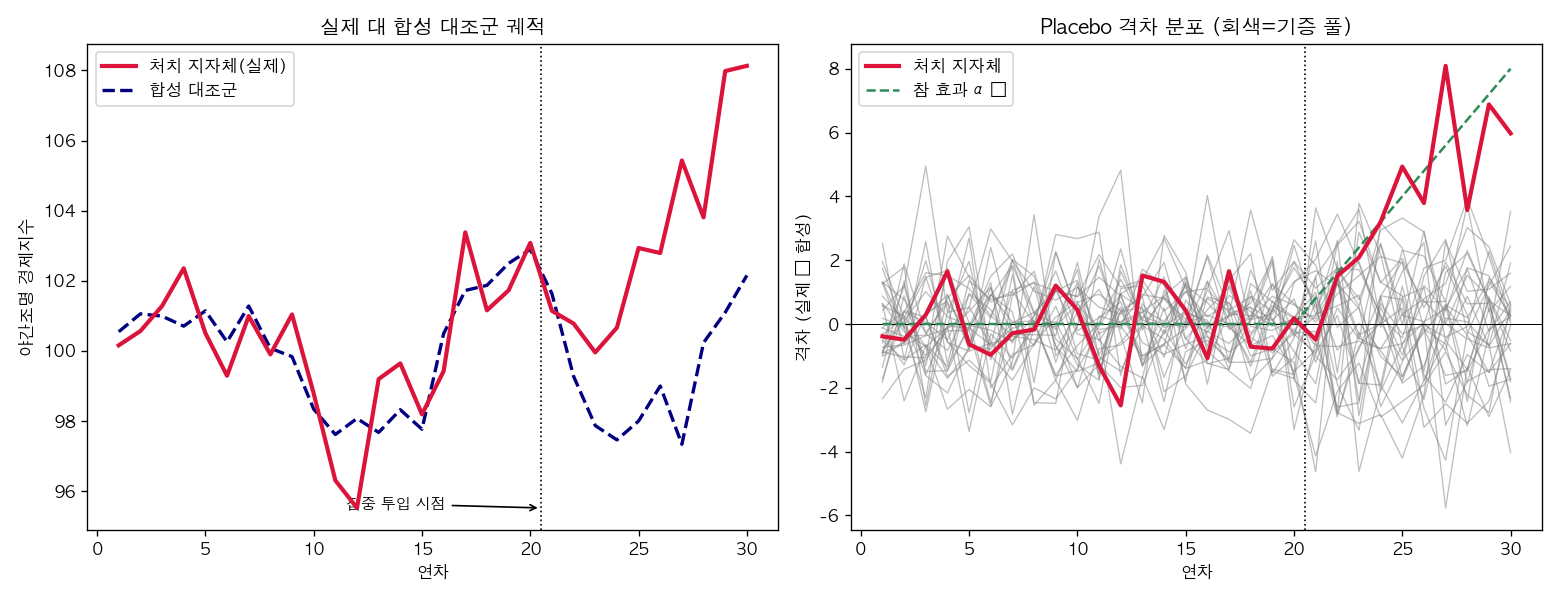
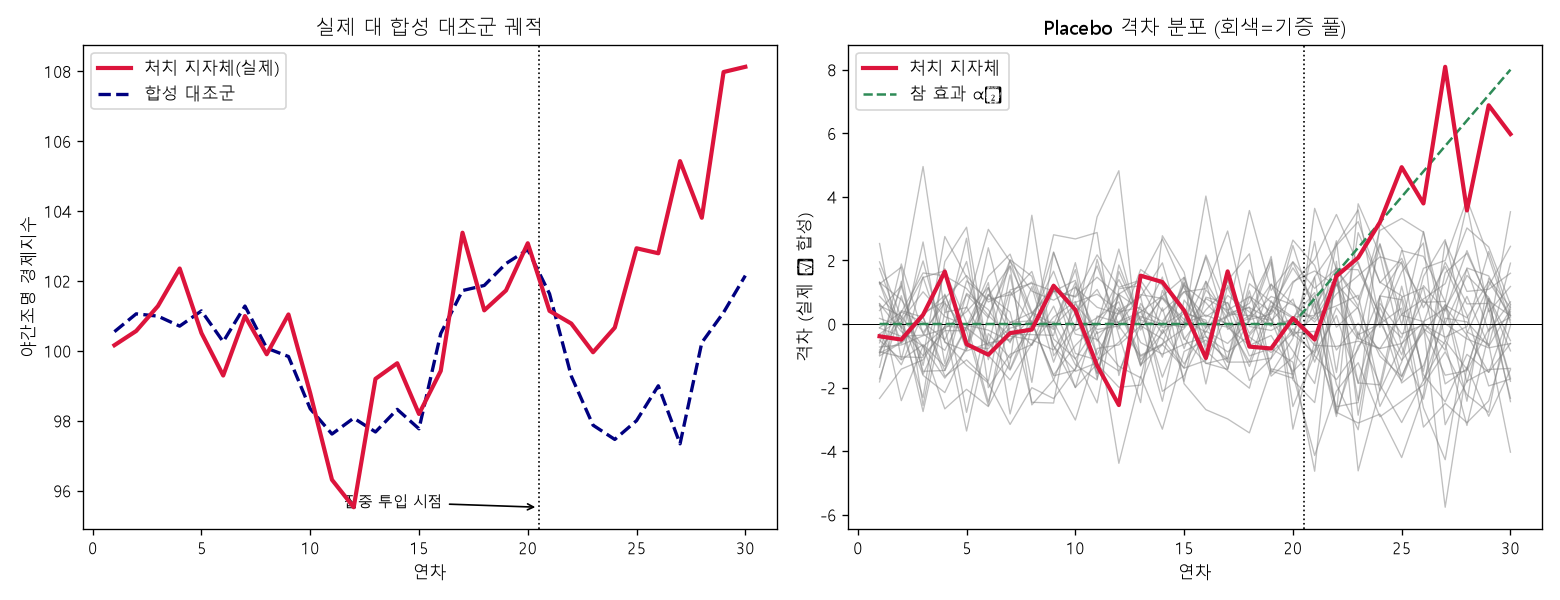
feat: add chapter 12 submission logs, evidence, and synthetic control results for student 202267001

diff --git a/submissions/제출_12장_202267001.md b/submissions/제출_12장_202267001.md
@@ -1,0 +1,139 @@
+# 12장 과제 — 누구에게 먼저, 무엇을 줄 것인가
+
+- **제출자**: 김태휘 / 학번 202267001
+- **제출일**: 2026-11-20 19:15
+
+---
+
+## 1. 자동 기록
+
+| 항목 | 값 |
+|---|---|
+| 대표 실습 | `lecture_practice\chapter12\code\12-1-decline-vulnerability-typology.py` |
+| 실행 결과 | 성공 |
+| 소요 시간 | 2.86초 |
+| 난수 | 학번 시드 오프셋 694488 |
+| 실행 환경 | Python 3.13.12 / Windows-11-10.0.26200-SP0 |
+| 코드 해시 | `53ea340458b119a0…` |
+| 출력 해시 | `dccd355ec27868e4…` |
+
+**준비 스크립트**
+
+- 12-0-simdata-prep.py — 성공, 0.97초
+
+---
+
+## 2. 실행 결과 — 자동으로 붙습니다
+
+아래에서 볼 것: **등급별 지역 수가 한 등급에 몰리는지, 우선지원 상위 지역이 어느 유형인지**
+
+```
+[학번 시드] 난수 오프셋 694488 적용 — 이 결과는 제출자 고유값이다.
+
+
+
+================================================================
+
+지방소멸위험·생활서비스 취약성과 우선지원 지역 (12-1, 1층+유형화)
+
+================================================================
+
+
+
+분석 단위: 300개 시군구·읍면동, 개인 식별 불가 집계
+
+
+
+[1층 GIS] 지방소멸위험지수 등급 (이상호 2015: 20–39세 여성/65세 이상)
+
+  소멸고위험   :   0개 ( 0.0%)
+
+  위험진입    :  63개 (21.0%)
+
+  주의      : 175개 (58.3%)
+
+  보통이상    :  62개 (20.7%)
+
+
+
+  합성 취약성 지표(표준화 가중합, 결정론적):
+
+    가중치 소멸위험0.35·청년유출0.20·서비스접근0.25·사업체0.20
+
+
+
+[2층 보조] KMeans 지역 유형화(k=4) — 정책 패키지 차별화
+
+        n  소멸위험지수  청년순이동  서비스접근분  사업체밀도   취약성
+
+type                                         
+
+3      63    0.45  -2.65   34.56  32.60  1.07
+
+1      84    0.61  -0.89   29.64  43.14  0.43
+
+0     101    0.87   0.11   22.81  56.75 -0.33
+
+2      52    1.35   1.37   15.26  71.68 -1.35
+
+  → 유형별로 청년유입·생활서비스·산업 중 무엇이 부족한지 달라 패키지가 갈린다.
+
+
+
+[3층 정책] 우선지원 지역 (합성 취약성 상위)
+
+ region_id  decline_risk_index risk_grade  youth_netmove  service_access  biz_density  type  vulnerability  vuln_rank
+
+       294                0.43       위험진입          -3.81           46.13        14.49     3           1.81          1
+
+       253                0.31       위험진입          -1.98           44.68        12.21     3           1.70          2
+
+       283                0.28       위험진입          -4.79           37.12        32.05     3           1.56          3
+
+       292                0.40       위험진입          -3.93           47.03        40.99     3           1.55          4
+
+       284                0.31       위험진입          -1.45           43.97        17.79     3           1.54          5
+
+       266                0.35       위험진입          -2.20           42.87        22.82     3           1.49          6
+
+       222                0.32       위험진입          -3.60           37.92        34.04     3           1.39          7
+
+       254                0.41       위험진입          -1.08           43.49        20.70     3           1.35          8
+
+       298                0.37       위험진입          -3.69           38.20        36.70     3           1.33          9
+
+       265                0.41       위험진입          -4.82           36.83        41.56     3           1.32         10
+
+
+
+  전체 우선순위표 저장 → decline_priority.csv
+
+  ※ 소지역 낙인 주의: '소멸' 명명은 투자 회수→가속 쇠퇴의 자기실현을 부를 수 있다.
+
+    지표는 지원 우선순위 보조일 뿐, 지역 포기의 근거가 아니다.
+
+
+
+[완료] 소멸위험·취약성 지표·유형화 분석을 마쳤다(1층+유형화).
+
+```
+
+---
+
+## 3. 여기만 채우세요
+
+**① 눈에 띈 숫자 하나를 그대로 옮겨 적고, 왜 눈에 띄었는지 한 문장으로.**
+
+→ 175 300개의 지역중에 절반이 넘는 지역이 주의라는 한 등급에 몰려있어 이 분류 만으로는 우선순위를 가르기 힘들것 같아 눈에 띄었다.
+
+**② 그 숫자가 왜 그렇게 나왔는가? (한두 문장)**
+
+→ 지방소멸위험지수 등급 구간에서 '주의' 구간이 넓게 설정되어 있어 중간 수준의 지역들이 대부분 이 구간 안에 들어왔기 때문이다
+
+**③ 우선지원 1순위 지역에 무엇을 먼저 지원하겠는가? 유형표에서 그 지역 유형에 무엇이 부족한지를 근거로 답하라. (한두 문장)**
+
+→ 우선지원 1순위인 294번 지역은 유형 3(type 3)에 속하는데, 유형표에서 유형 3은 네 유형 중 서비스 접근 시간(34.56분, 294번은 46.13분)이 가장 길고 사업체 밀도(32.60, 294번은 14.49)가 가장 낮으며 청년 순이동(-2.65%) 유출과 소멸위험지수(0.45)도 가장 취약한 유형이다. 따라서 먼 이동시간을 줄여 줄 병원·대중교통 등 생활서비스 인프라와 함께, 부족한 사업체와 빠져나가는 청년을 잡기 위한 지역 상권·청년 일자리를 우선 지원한다.
+
+---
+
+_③번이 이 과제의 핵심입니다. ①②는 로그를 보면 답이 나오지만 ③은 그렇지 않습니다._
